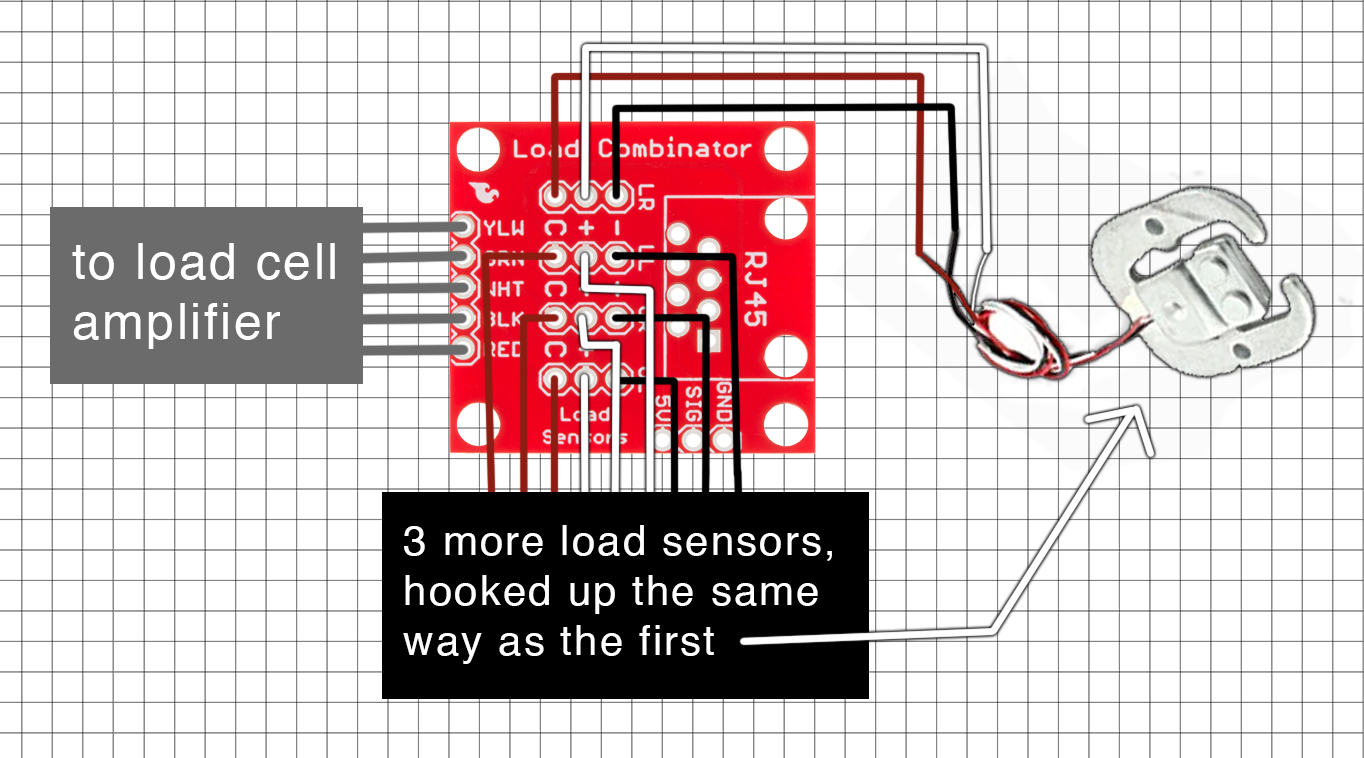
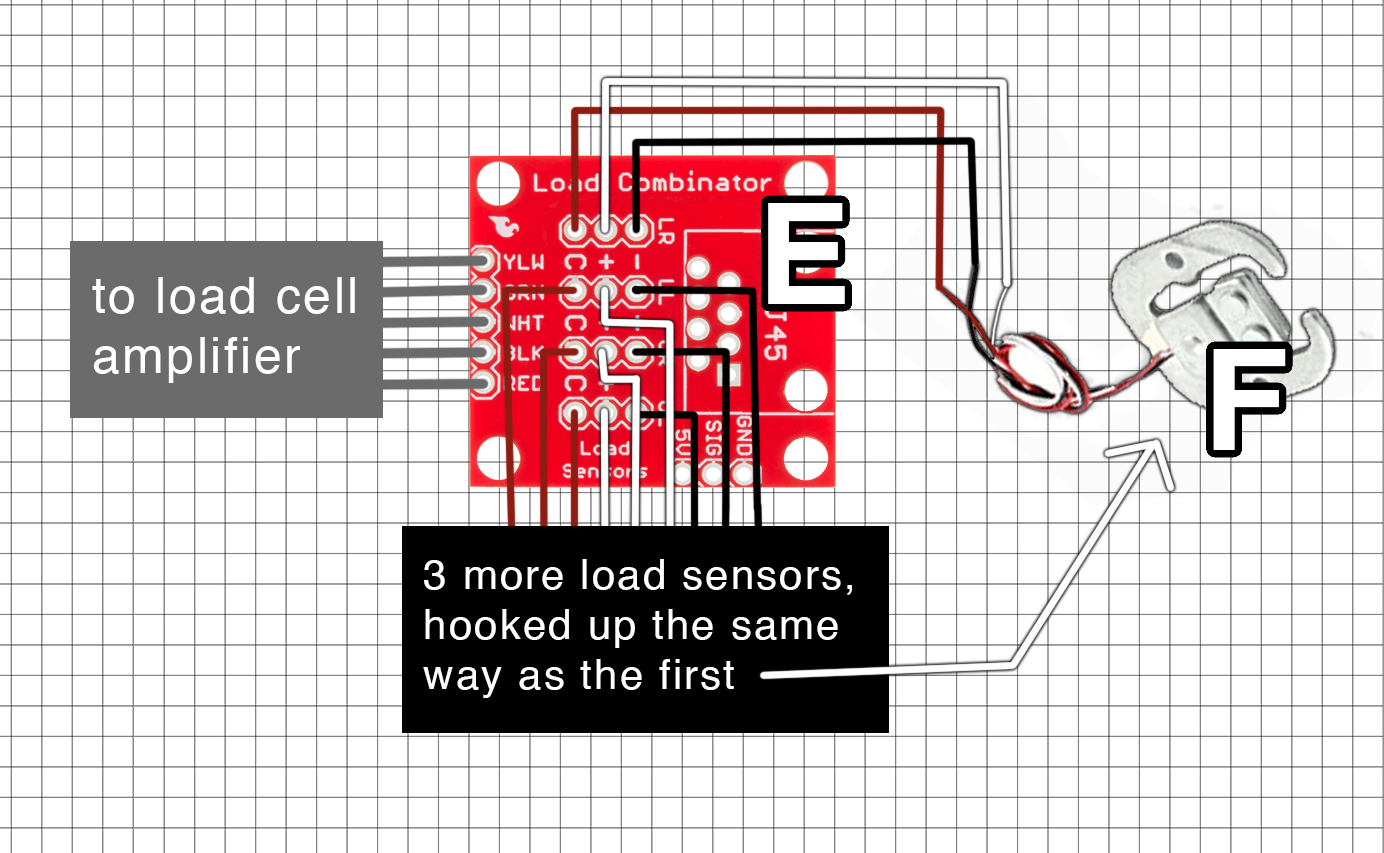
readme updates - schematics

diff --git a/README.md b/README.md
@@ -1,22 +1,45 @@
 # Open Connected Beehive
-A completely open-source device consisting of sensors to be attached to a beehive. These sensors gather data about the hive's conditions, and the data is then sent on to a web platform (also open-source). Monitored metrics include the weight of the beehive, the outside/inside temperature, the humidity, the number of bees going in and out of the hive, etc...
+A completely open-source device consisting of sensors attached to a beehive. These sensors gather data about the hive's conditions, and the data is then sent on to a web platform (also open-source). Monitored metrics include the weight of the beehive, the outside/inside temperature, the humidity, the number of bees going in and out of the hive, etc...
 
 
 The web platform is accessible to everyone, allowing beekeepers to monitor their hives' well being, and researchers to gather more data about bees.
 
 
-View the website [here](https://beetches.herokuapp.com/), and our Hackaday project page [here](https://hackaday.io/project/26182-open-connected-beehive).
+This project was created during the 2017 CRI Summer School by Tanguy Chotel, Pauline Ko, Alfredo L'homme, Lin Li, Nikola Maksic, and Rebecca Weinberger. View the website [here](https://beetches.herokuapp.com/), and our Hackaday project page [here](https://hackaday.io/project/26182-open-connected-beehive).
 
-# Project components
+# Contents
+1. [Materials](https://github.com/rweinberger/connected-beehive/#materials)
+2. [Microcontroller code](https://github.com/rweinberger/connected-beehive/#microcontroller-code)
+3. [Hardware Setup](https://github.com/rweinberger/connected-beehive/#hardware-setup)
+4. [Website](https://github.com/rweinberger/connected-beehive/#website)
 
-1. [Materials](https://hackaday.io/project/26182/components)
-2. [Microcontroller code](https://github.com/rweinberger/connected-beehive/tree/master/arduino)
-    * `trans_lorafeather.ino`: uploaded to LoRa feather (transmitter); reads sensor data and sends to second LoRa feather (receiver)
-    * `rec_lora.ino`: uploaded to LoRa feather (receiver); receives data and sends it to WiFi feather
-    * `lora_to_wifi.ino`: uploaded to WiFi ESP8266 feather; sends data to web server over WiFi
-3. [Hardware setup](https://github.com/rweinberger/connected-beehive/tree/master/images)
-    * Wireless LoRa transmitter
-    * LoRa receiver to WiFi feather
-4. [Website](https://github.com/rweinberger/connected-beehive-site/tree/766d86099f8420a70ec02faaa4ec69ae013b3f15)
-    * Node.js-based web app to receive and display sensor data in real time, both quantitatively and qualitatively
-    * Currently live [here](https://beetches.herokuapp.com/)
+# Materials
+[Materials](https://hackaday.io/project/26182/components)
+
+#Microcontroller code
+[Microcontroller code](https://github.com/rweinberger/connected-beehive/tree/master/arduino)
+
+1. `trans_lorafeather.ino`: uploaded to LoRa feather (transmitter); reads sensor data and sends to second LoRa feather (receiver)
+2. `rec_lora.ino`: uploaded to LoRa feather (receiver); receives data and sends it to WiFi feather
+3. `lora_to_wifi.ino`: uploaded to WiFi ESP8266 feather; sends data to web server over WiFi
+
+# Hardware setup
+[Hardware setup](https://github.com/rweinberger/connected-beehive/tree/master/images)
+
+1. Wireless LoRa feather transmitter (**A**) hooked up to remote temperature probe (**B**), temperature & humidity sensor (**C**), and load cell amplifier (**D**), which is connected to scale sensors by load combinator (**shown below**)
+![alt text][lora_trans]
+Hookup of load combinator (**E**). Each of the 4 load sensors (**F**) is attached to the board as shown. The YLW/ GRN/ WHT/ BLK/ RED pins correspond to the pins of the same name on the load cell amplifier in the previous schematic.
+![alt text][load_combinator]
+2. A second LoRa feather receiver (**G**) is connected to a WiFi feather (**H**). From the WiFi feather, data is sent to the web server.
+![alt text][lora_to_wifi]
+
+# Website 
+
+[Website](https://github.com/rweinberger/connected-beehive-site/tree/766d86099f8420a70ec02faaa4ec69ae013b3f15)
+
+1. Node.js-based web app to receive and display sensor data in real time, both quantitatively and qualitatively
+2. Currently live [here](https://beetches.herokuapp.com/)
+
+[lora_trans]: https://raw.githubusercontent.com/rweinberger/connected-beehive/master/images/lora_trans.png
+[load_combinator]: https://raw.githubusercontent.com/rweinberger/connected-beehive/master/images/load_combinator.png
+[lora_to_wifi]: https://raw.githubusercontent.com/rweinberger/connected-beehive/master/images/lora_to_wifi.png
